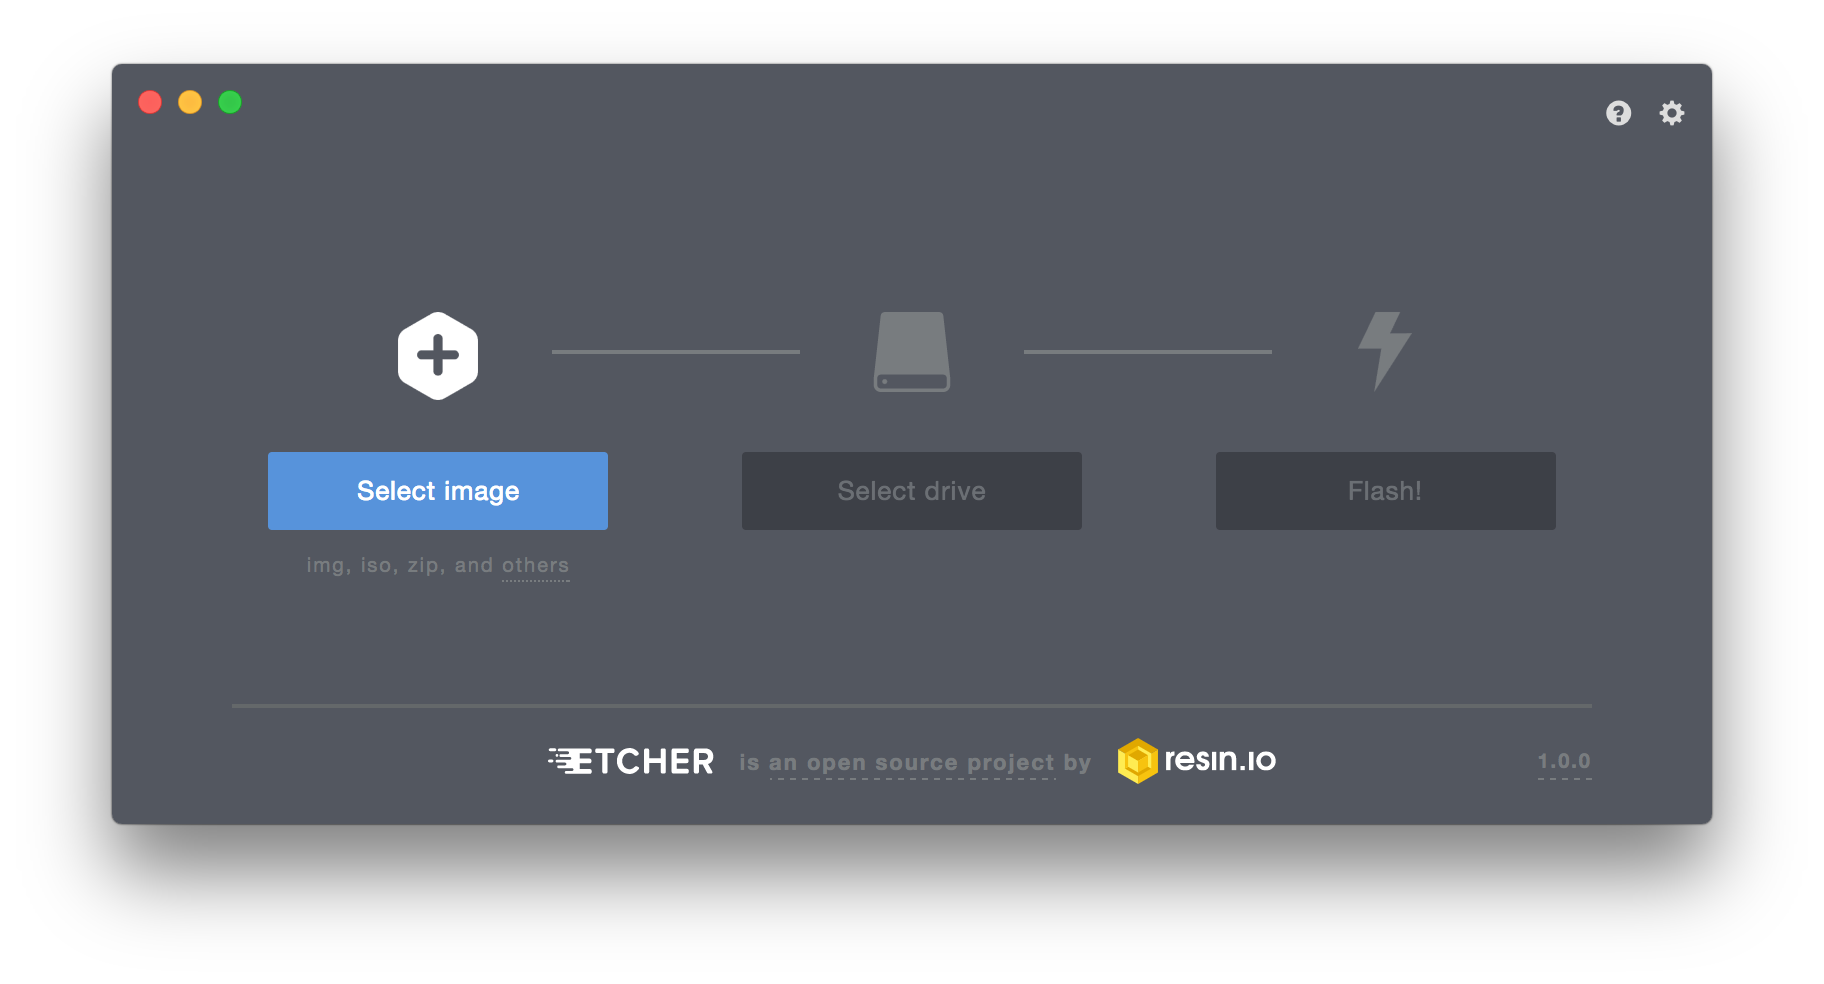
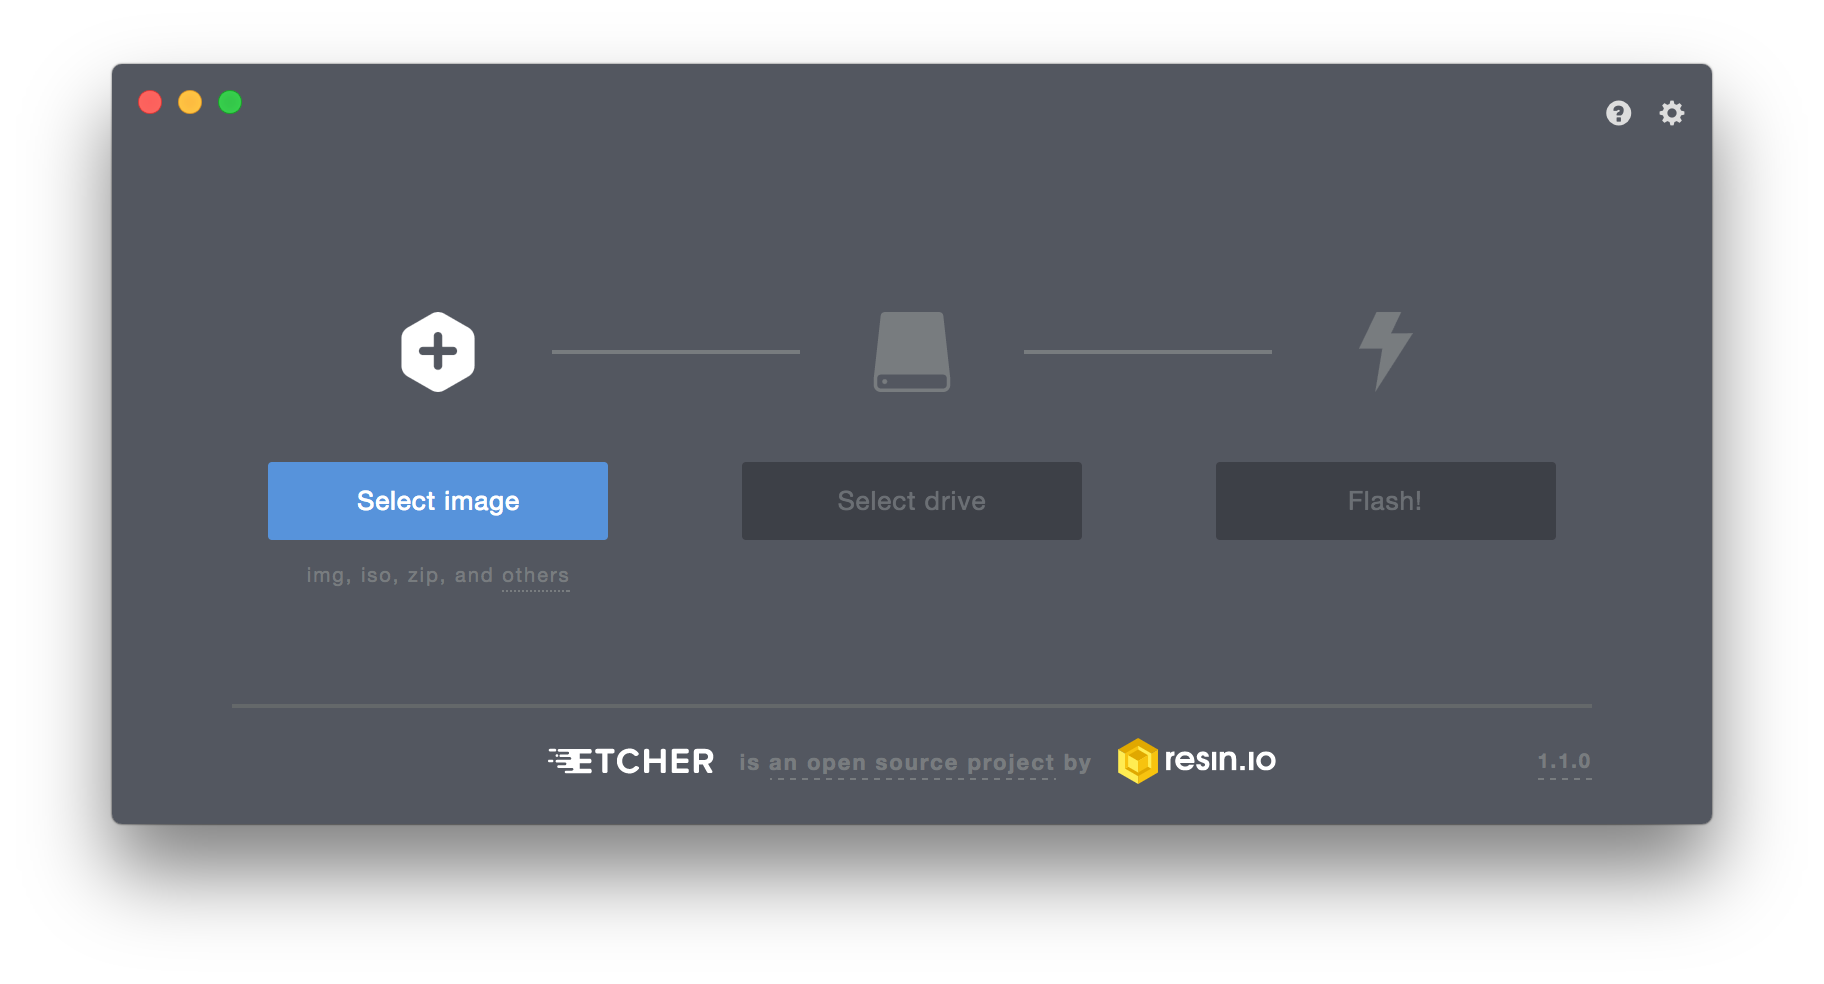
v1.1.0

diff --git a/CHANGELOG.md b/CHANGELOG.md
@@ -3,6 +3,44 @@
 All notable changes to this project will be documented in this file.
 This project adheres to [Semantic Versioning](http://semver.org/).
 
+## v1.1.0 - 2017-07-20
+
+### Features
+
+- Add image name, drive name, and icon to OS notifications
+- Add support for `.sdcard` images
+- Start publishing RPM packages
+- Generate single-binary portable installers on Windows
+- Show friendlier error dialogs when opening an image results in an error
+- Generate one-click Windows NSIS installers
+- Show the application version in the WebView banners
+- Show a warning message if the selected image has no partition table
+- Make use of `pkg` to package the Etcher CLI
+- Send anonymous analytics about package types
+- Minor style improvements to the fallback success page banner
+- Turn the update notifier modal into a native dialog
+
+### Fixes
+
+- Fix "You don't have access to this resource" error at startup when behind a firewall
+- Fix `UNABLE_TO_VERIFY_LEAF_SIGNATURE` error at startup when behind a proxy
+- Reset webview after navigating away from the success screen
+- Fix occasional increased CPU usage because of perl regular expression in macOS
+- Don't install to `C:\Program Files (x86)` on 64-bit Windows systems
+- Fix "file is not accessible" error when flashing an image that lives inside a directory whose name is UTF-16 encoded on Windows.
+- Fix various interrelated Windows `.bat` spawning issues
+- Fix 0.0 GB Windows drive detection issues
+- Cleanup drive detection temporary scripts in GNU/Linux and macOS
+- Ensure no analytics events are sent if error reporting is disabled
+- Retry various times on `EAGAIN` when spawning drive scanning scripts
+- Don't break up size numbers in the drive selector
+
+### Misc
+
+- Remove "Advanced" settings subtitle
+- Remove support for the `ETCHER_DISABLE_UPDATES` environment variable
+- Swap speed and time below the flashing progress bar
+
 ## v1.0.0 - 2017-05-12
 
 ### Features
